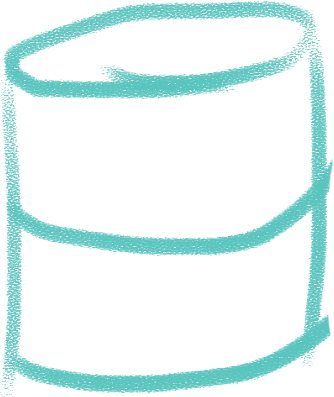
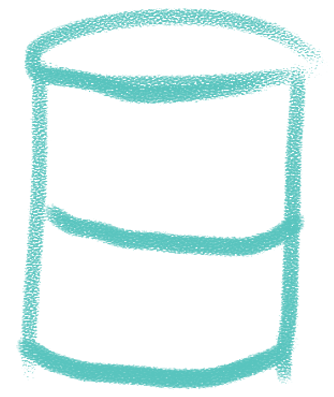
Update site home page

Changed region(s): [[0.0, 0.0, 1.0, 0.9975]]

diff --git a/app/page.tsx b/app/page.tsx
@@ -20,7 +20,8 @@ const contactLinks = [
 ];
 
 export default function Home() {
-    const projects = getGroupedContent().projects.slice(0, 3);
+    const featuredProject = getFeaturedProject(getGroupedContent().projects);
+    const projects = featuredProject ? [featuredProject] : [];
 
     return (
         <main
@@ -37,7 +38,21 @@ export default function Home() {
                     real problems while remaining intuitive, reliable, and enjoyable to use.
                 </p>
             </section>
+            <section className="max-w-5xl">
+                <div className="flex flex-col gap-4 sm:flex-row sm:items-end sm:justify-between">
+                    <div>
+                        <h2 className="text-3xl font-semibold tracking-normal">Projects</h2>
+                    </div>
+                    <Link
+                        href="/blog"
+                        className="font-mono text-sm font-semibold uppercase tracking-normal text-accent-700 hover:text-accent-900 dark:text-accent-300 dark:hover:text-accent-100"
+                    >
+                        View all projects
+                    </Link>
+                </div>
 
+                <ProjectList projects={projects}/>
+            </section>
             <section className="border-y border-zinc-200 py-8 dark:border-zinc-800">
                 <div className="flex flex-col gap-6 md:flex-row md:items-start md:justify-between">
                     <div>
@@ -66,21 +81,7 @@ export default function Home() {
                     </dl>
                 </div>
             </section>
-            <section className="max-w-5xl">
-                <div className="flex flex-col gap-4 sm:flex-row sm:items-end sm:justify-between">
-                    <div>
-                        <h2 className="text-3xl font-semibold tracking-normal">Projects</h2>
-                    </div>
-                    <Link
-                        href="/blog"
-                        className="font-mono text-sm font-semibold uppercase tracking-normal text-accent-700 hover:text-accent-900 dark:text-accent-300 dark:hover:text-accent-100"
-                    >
-                        View all projects
-                    </Link>
-                </div>
 
-                <ProjectList projects={projects}/>
-            </section>
         </main>
     );
 }
@@ -95,16 +96,13 @@ function ProjectList({projects}: { projects: ContentEntry[] }) {
     }
 
     return (
-        <ul className="mt-8 grid gap-6 lg:grid-cols-3">
+        <ul className="mt-8 grid max-w-2xl gap-6">
             {projects.map((project) => (
                 <li
                     key={project.slug}
                     className="border border-zinc-200 p-5 dark:border-zinc-800"
                 >
                     <Link href={`/blog/${project.slug}`} className="group block">
-                        <p className="font-mono text-xs font-semibold uppercase tracking-normal text-zinc-500 dark:text-zinc-400">
-                            {formatPublishedDate(project.published)}
-                        </p>
                         <h3 className="mt-3 text-2xl font-semibold tracking-normal group-hover:text-accent-700 dark:group-hover:text-accent-300">
                             {project.title}
                         </h3>
@@ -119,6 +117,12 @@ function ProjectList({projects}: { projects: ContentEntry[] }) {
             ))}
         </ul>
     );
+}
+
+function getFeaturedProject(projects: ContentEntry[]) {
+    const featuredProjects = projects.filter((project) => project.featured);
+
+    return featuredProjects[0] ?? projects[0];
 }
 
 function TagList({tags}: { tags: string[] }) {
@@ -138,23 +142,4 @@ function TagList({tags}: { tags: string[] }) {
             ))}
         </ul>
     );
-}
-
-function formatPublishedDate(published?: string) {
-    if (!published) {
-        return "Undated";
-    }
-
-    const date = new Date(published);
-
-    if (Number.isNaN(date.getTime())) {
-        return "Undated";
-    }
-
-    return new Intl.DateTimeFormat("en", {
-        month: "short",
-        day: "numeric",
-        year: "numeric",
-        timeZone: "UTC",
-    }).format(date);
 }

diff --git a/app/blog/content.ts b/app/blog/content.ts
@@ -18,6 +18,7 @@ export type ContentEntry = {
   title: string;
   description?: string;
   published?: string;
+  featured: boolean;
   tags: string[];
   extension: string;
 };
@@ -82,6 +83,7 @@ function getContentEntries(type: ContentType) {
         title: frontmatter.title || titleFromSlug(slug),
         published: frontmatter.published,
         description: frontmatter.description,
+        featured: parseBoolean(frontmatter.featured),
         tags: parseTags(frontmatter.tags),
       };
     })
@@ -155,4 +157,8 @@ function parseTags(tags?: string) {
     .split(",")
     .map((tag) => tag.trim())
     .filter(Boolean);
+}
+
+function parseBoolean(value?: string) {
+  return value?.toLowerCase() === "true";
 }